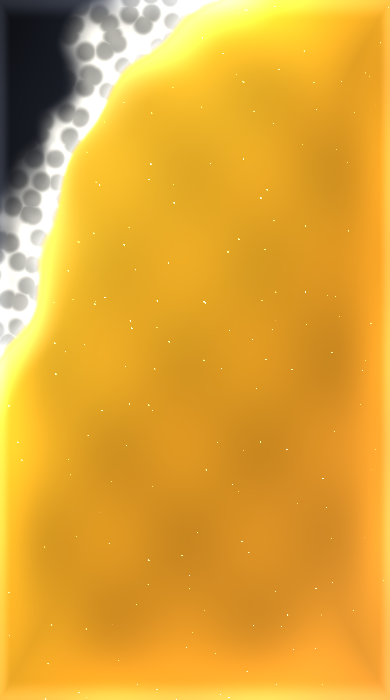
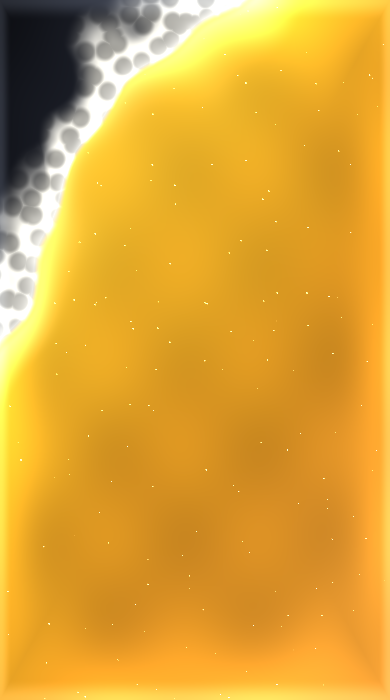
Code review

Changed region(s): [[0.0615, 0.0, 0.7385, 0.33], [0.0, 0.36, 0.1231, 0.57]]

diff --git a/shared/runtime.js b/shared/runtime.js
@@ -254,12 +254,14 @@ function createAibeer(opts) {
 
   const t0 = performance.now();
   let last = t0;
+  let lastTargetDir = manualDir;
   function frame(now) {
     const t = (now - t0) / 1000;
     const dt = Math.min((now - last) / 1000, 0.1);
     last = now;
 
     const state = advanceState(dt);
+    lastTargetDir = state.targetDir;
     // 60 s wrap: all shader harmonics are integer cycles/minute → seamless.
     const t60 = t % 60;
 
@@ -275,6 +277,8 @@ function createAibeer(opts) {
       const s = STYLES.find(x => x.id === id);
       if (s) style = s;
     },
-    get state() { return { fill, target, style, sloshDir: slosh.dir, gravity: slosh.dir }; }
+    get state() {
+      return { fill, target, style, sloshDir: slosh.dir, gravity: lastTargetDir };
+    }
   };
 }

diff --git a/app/template.html b/app/template.html
@@ -85,7 +85,8 @@ const STYLES = __STYLES_JSON__;
       default:  dx = gx;   dy = gy;  break;   // portrait
     }
     const len = Math.hypot(dx, dy);
-    // Phone lying flat: degenerate projection → null (runtime holds last).
+    // Phone lying flat: degenerate projection → null (runtime falls back to
+    // its manual tilt direction from drag/arrow keys).
     gyroDir = len > 0.05 ? [dx / len, dy / len] : null;
   }
 
